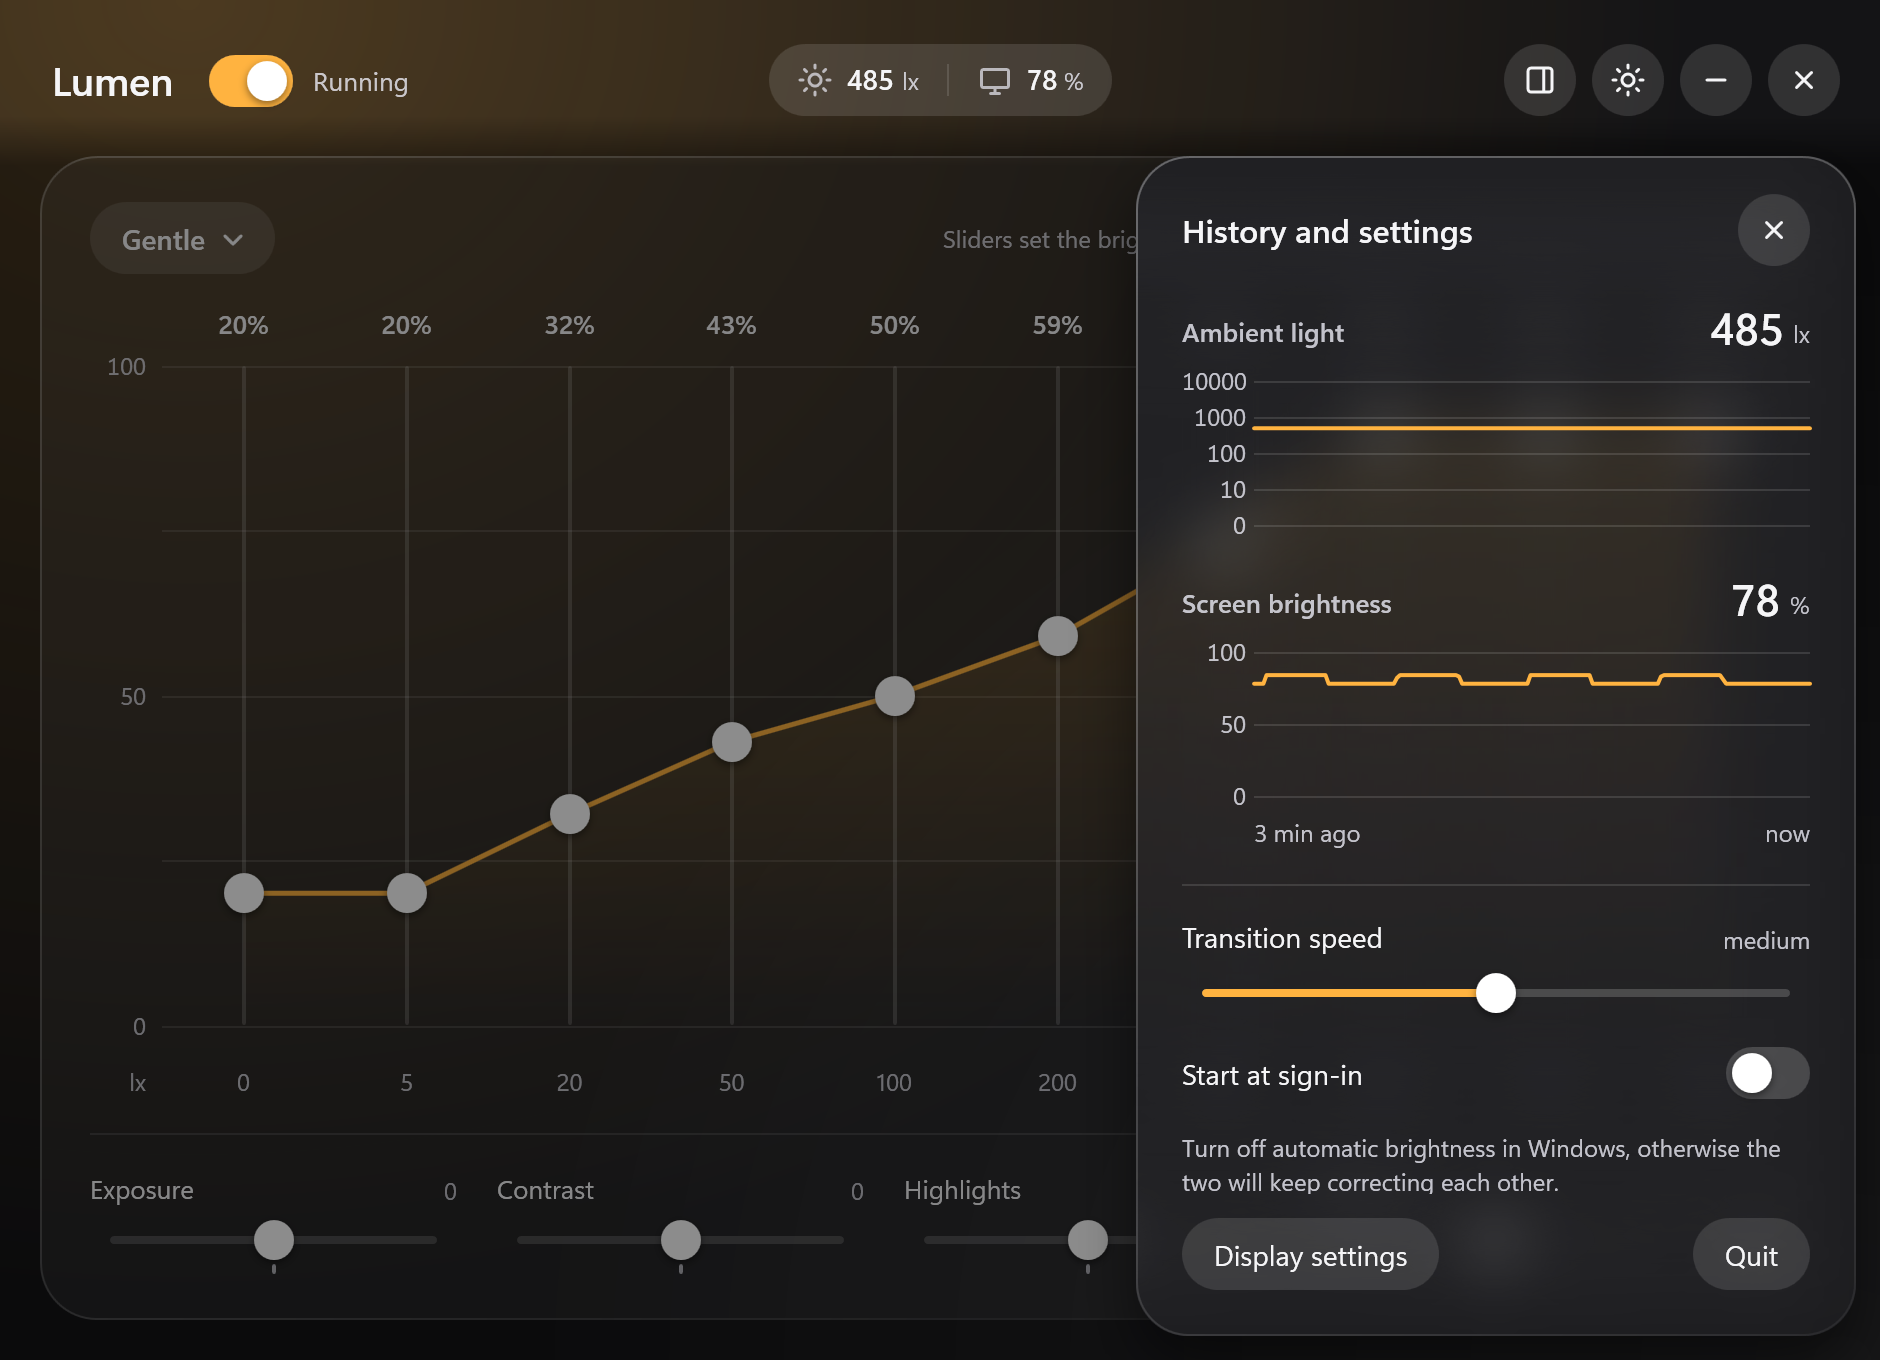
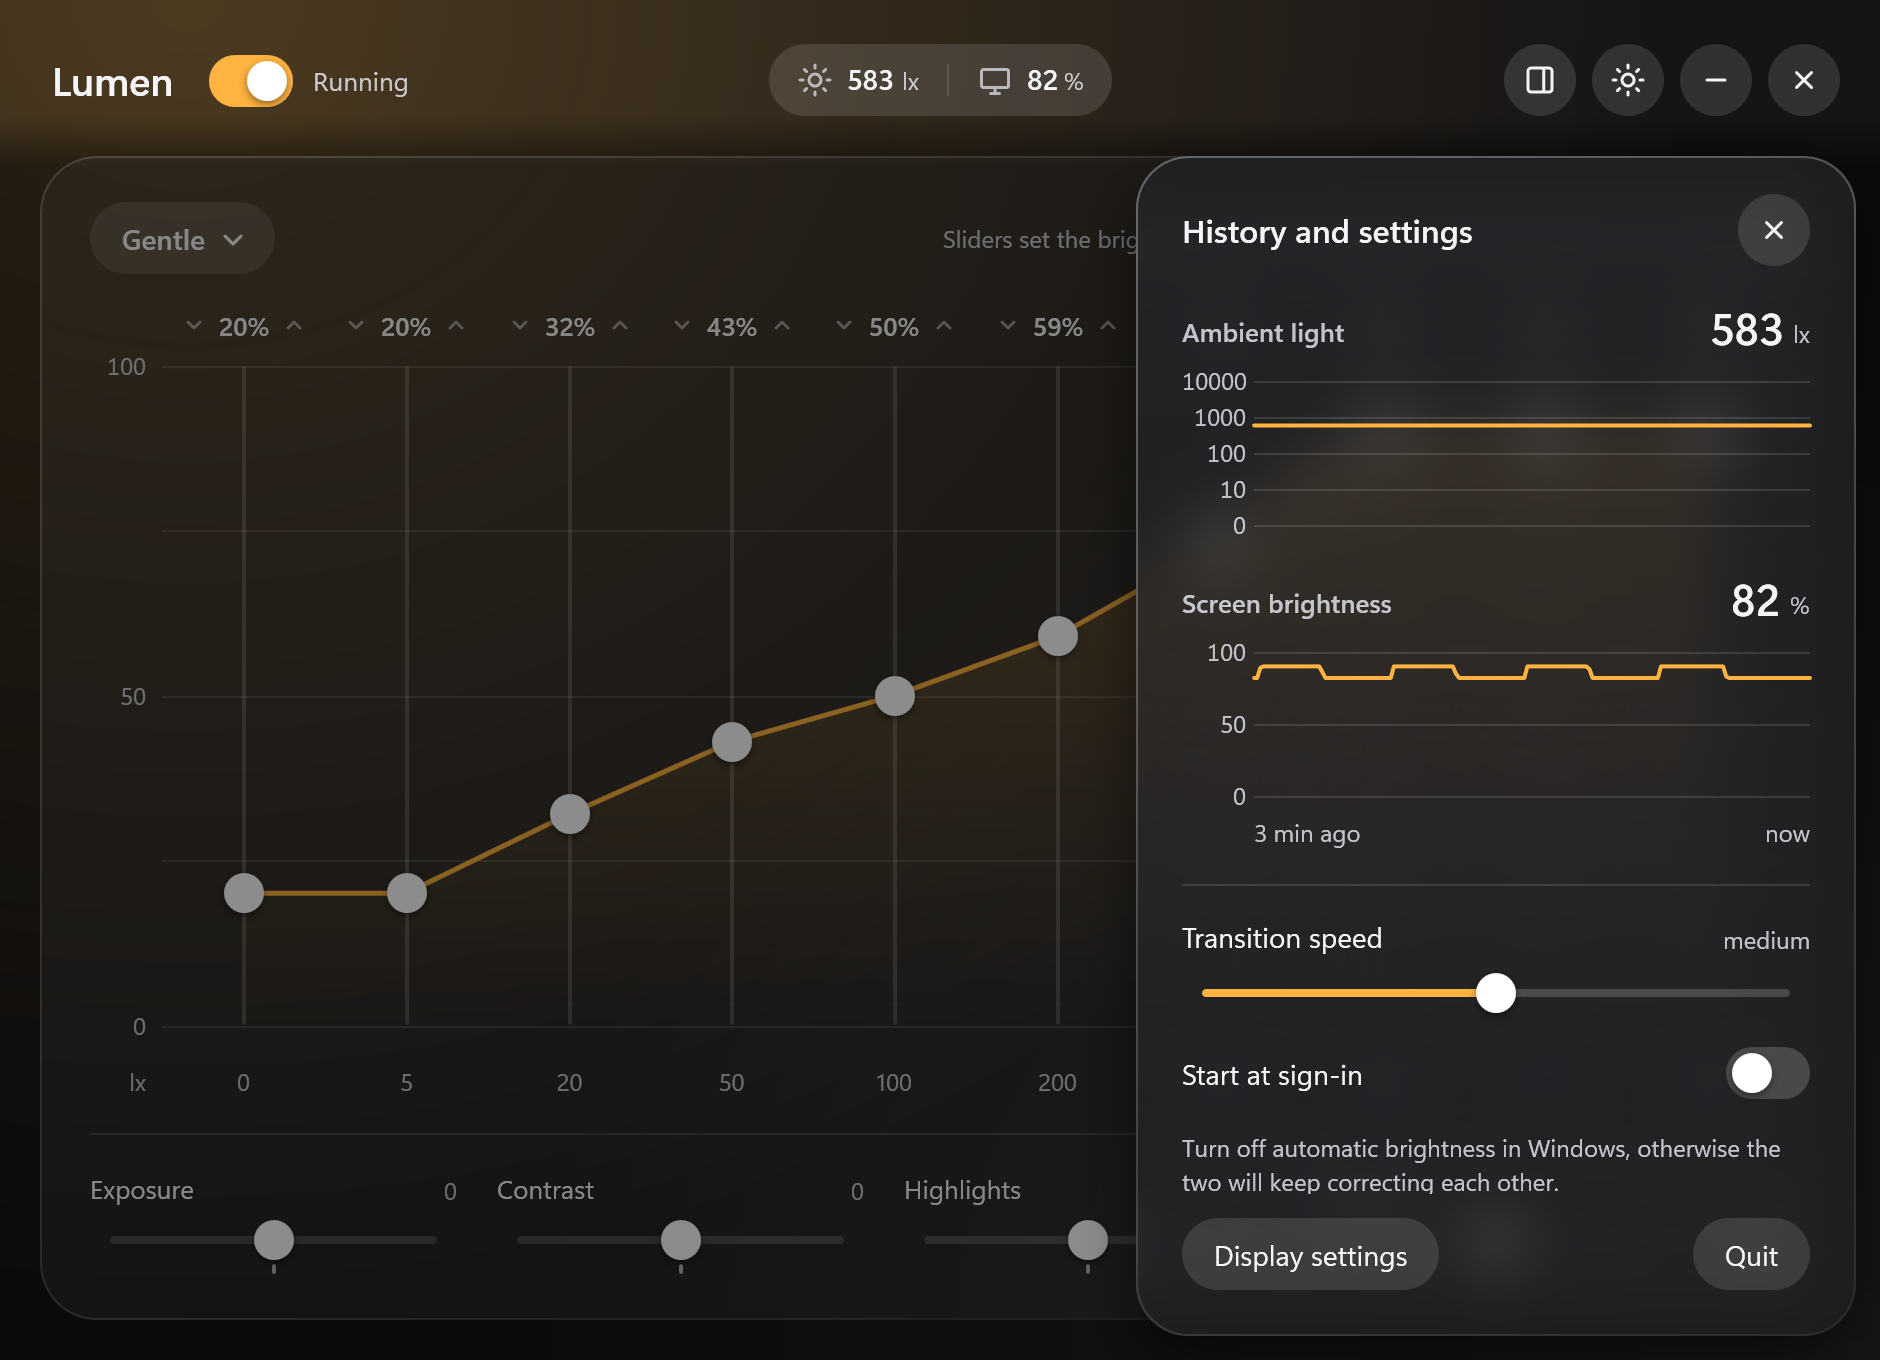
Add step arrows next to the band values
Each band value has two small arrows that change it one percent per click. README and screenshots updated.

diff --git a/README.md b/README.md
@@ -43,9 +43,9 @@ Closing the window keeps Lumen running in the tray. To quit, use **Quit** in the
 
 ## Usage
 
-Drag a band to set the brightness for that light level. The dashed line and the dot mark the current reading, so the band next to it is the one that changes what you see now.
+Drag a band to set the brightness for that light level, or click the small arrows next to its value to change it one percent at a time. The dashed line and the dot mark the current reading, so the band next to it is the one that changes what you see now.
 
-The tone sliders below the curve apply on top of the profile. Double-click a slider to reset it. Moving a band by hand after a tone adjustment stores the result as the new curve.
+The tone sliders below the curve apply on top of the profile and stay in place when you move a band. Double-click a slider to reset it. When a tone adjustment limits how far a band can go, the band stops at the nearest value it can reach.
 
 The built-in profiles, *Windows* and *Gentle*, are templates: the first change creates an editable copy.
 
